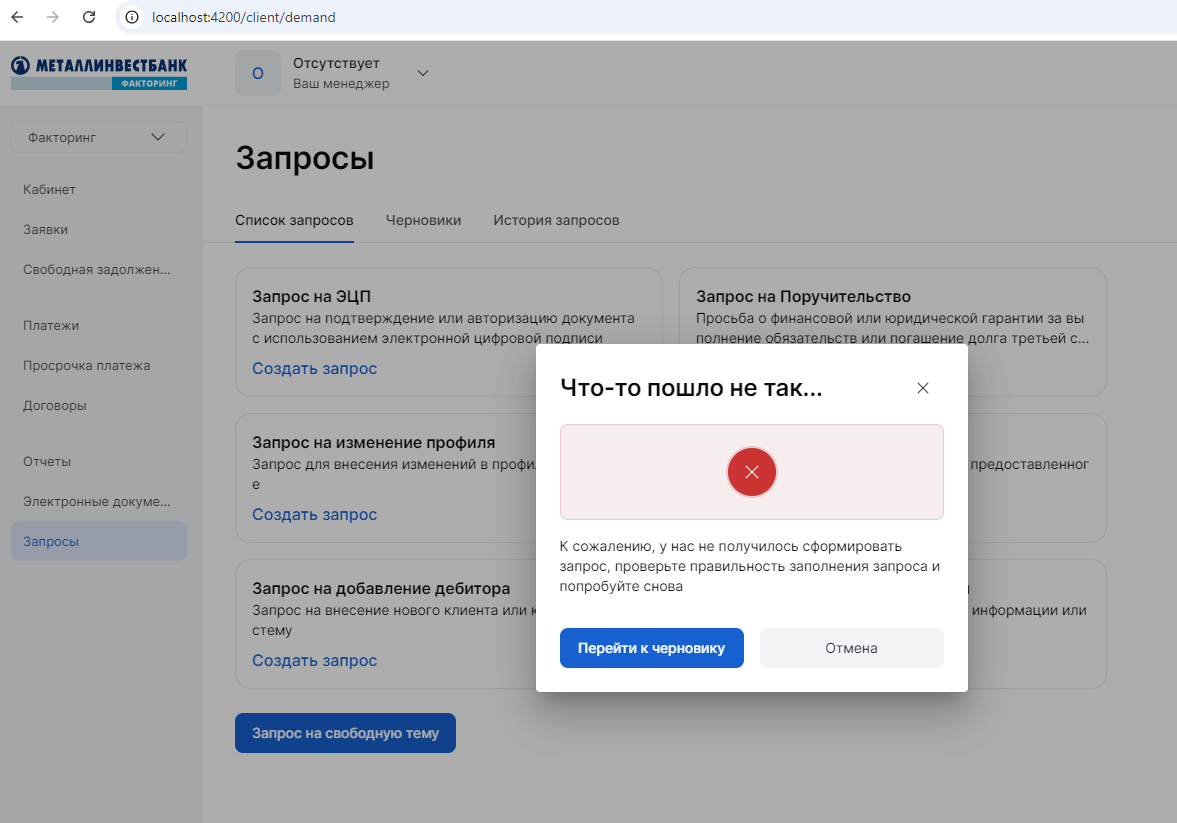
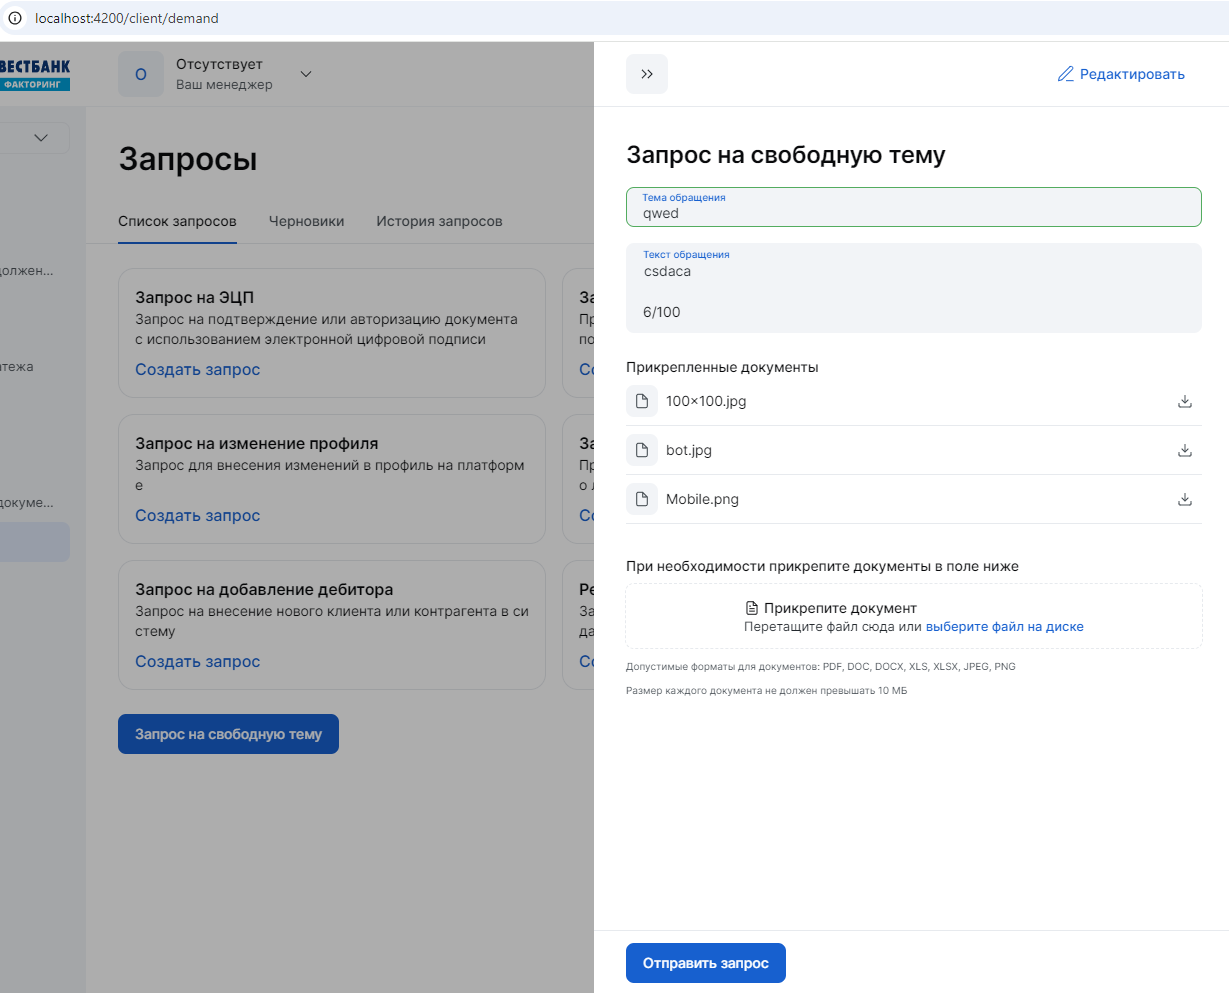
feat: free.request basic

diff --git a/src/app/client/modules/demand-new/modules/demand-drawer/demand-drawer.component.ts b/src/app/client/modules/demand-new/modules/demand-drawer/demand-drawer.component.ts
@@ -5,7 +5,10 @@ import {ButtonSize} from 'src/app/shared/ui-kit/button/interfaces/button.interfa
 import {InputSize} from 'src/app/shared/ui-kit/input/interfaces/input.interface'
 import {DrawerData} from '../../../../../shared/ui-kit/drawer/interfaces/drawer.interface'
 import {FileDnd} from 'src/app/shared/ui-kit/drag-and-drop/interfaces/drop-box.interface'
-import {extractBase64} from 'src/app/shared/services/tools.service'
+import {
+	downloadBase64File,
+	extractBase64
+} from 'src/app/shared/services/tools.service'
 import {DocumentReq} from '../../../requests/interfaces/request.interface'
 import {ToasterService} from 'src/app/shared/services/common/toaster.service'
 import {
@@ -25,6 +28,7 @@ import {
 import {DemandService} from '../../services/demand.service'
 import {RequestFailureModalService} from 'src/app/shared/modules/modals/request-failure-modal/request-failure-modal.service'
 import {RequestCreateSuccessModalService} from 'src/app/shared/modules/modals/request-create-success-modal/request-create-success-modal.service'
+import {DocumentsService} from '../../../documents/services/documents.service'
 
 @Component({
 	selector: 'mib-demand-drawer',
@@ -47,6 +51,8 @@ export class DemandDrawerComponent implements OnInit {
 	isViewDemand: boolean = false
 	isDemandRequest: boolean = false
 
+	public isDownloading$ = new BehaviorSubject<boolean>(false)
+
 	DraftId = null
 
 	constructor(
@@ -56,6 +62,7 @@ export class DemandDrawerComponent implements OnInit {
 		private requestFailureModalService: RequestFailureModalService,
 		private requestCreateSuccessModalService: RequestCreateSuccessModalService,
 		public dialogRef: MatDialogRef<DemandDrawerComponent>,
+		private documentsService: DocumentsService,
 		@Inject(MAT_DIALOG_DATA) public data: DrawerData
 	) {}
 
@@ -67,7 +74,7 @@ export class DemandDrawerComponent implements OnInit {
 		this.initForms()
 
 		const modalData = this.data.data
-
+		console.log('modalData :>> ', modalData)
 		// Если редактирование ИЛИ просмотр, тогда тянем данные с АПИ
 		if (modalData?.isEdit || modalData?.isView) {
 			this.getByID()
@@ -86,7 +93,9 @@ export class DemandDrawerComponent implements OnInit {
 		if (modalData?.isCreation && modalData?.DraftId) {
 			this.DraftId = modalData.DraftId
 			// получаем черновик по DraftId
-			// this.getCurrentDraft();
+			console.log('HALO DRAFT >>>>')
+			console.log('modalData :>> ', modalData)
+			this.getCurrentDraft()
 
 			// Включаем авто сохранение
 			this.enableAutoSaveDraft()
@@ -189,6 +198,50 @@ export class DemandDrawerComponent implements OnInit {
 		this.addDocument(document)
 	}
 
+	downloadCurrentFile() {
+		console.log('HALO DOWNLOAD FILE >>>')
+		// this.isDownloading$.next(true)
+		// this.documentsService
+		// 	.getDocumentContent(DocumentID)
+		// 	.pipe(
+		// 		tap(data => {
+		// 			downloadBase64File(data, DocTitle)
+		// 		}),
+		// 		finalize(() => {
+		// 			this.isDownloading$.next(false)
+		// 		})
+		// 	)
+		// 	.subscribe()
+	}
+
+	getCurrentDraft() {
+		this.loading$.next(true)
+		this.demandService
+			.getDemandDraftById(this.DraftId)
+			.pipe(
+				tap(data => {
+					/* 
+						{
+						"ID": 15972,
+						"User": "Котов Андрей",
+						"DateCreated": "2024-09-24T15:44:17Z",
+						"DateModify": "2024-09-24T15:44:31Z",
+						"DemandData": "{\"Subject\":\"fail test \",\"Question\":\"fail test text\",\"Type\":\"Question\",\"Files\":[]}"
+						}
+						*/
+					console.log('data :>> ', data)
+					const demandData = JSON.parse(data.DemandData)
+					const subject = demandData.Subject
+					const question = demandData.Question
+
+					this.form.get('requestTitle').setValue(subject)
+					this.form.get('requestText').setValue(question)
+				}),
+				finalize(() => this.loading$.next(false))
+			)
+			.subscribe()
+	}
+
 	onSubmit() {
 		this.isSubmitting$.next(true)
 		const res = this.form.getRawValue()
@@ -227,17 +280,12 @@ export class DemandDrawerComponent implements OnInit {
 					// Ожидание завершения всех запросов на загрузку файлов
 					return forkJoin(uploadObservables)
 				}),
-				// catchError(error => {
-				// 	this.dialogRef.close()
-				// 	this.openRequestFailureModal(this.data)
-				// 	return of(null)
-				// }),
 				finalize(() => this.isSubmitting$.next(false))
 			)
 			.subscribe({
 				error: () => {
 					this.dialogRef.close()
-					this.openRequestFailureModal(this.data)
+					this.openRequestFailureModal(this.DraftId)
 				},
 				complete: () => {
 					this.dialogRef.close()

diff --git a/src/app/client/modules/demand-new/modules/demand-drawer/demand-drawer.component.html b/src/app/client/modules/demand-new/modules/demand-drawer/demand-drawer.component.html
@@ -26,15 +26,24 @@
 			></textarea>
 		</mib-textarea>
 		<mib-spacing type="s"></mib-spacing>
-		<p
-			class="text text_m text_medium"
+		<ng-container
 			*ngIf="!documents.controls.length; else copiesTemplate"
-		>
+		></ng-container>
+		<p class="text text_m text_medium">
 			При необходимости прикрепите документы в поле ниже
 		</p>
 		<mib-spacing type="xs2"></mib-spacing>
 		<ng-template #copiesTemplate>
-			<mib-table>
+			<p class="text text_m text_medium">Прикрепленные документы</p>
+			<mib-spacing type="xs2"></mib-spacing>
+			<div *ngFor="let document of documents.controls; let idx = index">
+				<mib-dl-file-cell
+					(onDload)="downloadCurrentFile()"
+					[fileName]="document.get('Title').value"
+				></mib-dl-file-cell>
+				<mib-spacing type="xs2"></mib-spacing>
+			</div>
+			<!-- <mib-table>
 				<mib-table-head>
 					<mib-table-head-cell>№</mib-table-head-cell>
 					<mib-table-head-cell>Имя файла</mib-table-head-cell>
@@ -42,46 +51,47 @@
 					<mib-table-head-cell>Тип документа</mib-table-head-cell>
 				</mib-table-head>
 				<mib-table-row
-					*ngFor="let document of documents.controls; let idx = index"
+				*ngFor="let document of documents.controls; let idx = index"
 				>
-					<mib-table-cell>
-						<ng-container table-cell-title>{{ idx + 1 }}</ng-container>
-					</mib-table-cell>
-					<mib-table-cell>
-						<ng-container table-cell-title>{{
-							document.get('Title').value
-						}}</ng-container>
-					</mib-table-cell>
-					<mib-table-cell>
-						<ng-container table-cell-title>{{
-							document.get('Description').value
-						}}</ng-container>
-					</mib-table-cell>
-					<mib-table-cell>
-						<ng-container table-cell-title>{{
-							document.get('DocumentTypeID').value
-						}}</ng-container>
-					</mib-table-cell>
-					<mib-button
-						table-row-button
-						[mibDropdownTrigger]="documentMenu"
-						size="s"
-						type="ghost-secondary"
-					>
-						<mib-icon
-							class="stroke"
-							btn-icon
-							name="fi_more-vertical"
-						></mib-icon>
-					</mib-button>
-					<mib-dropdown #documentMenu>
-						<mib-dropdown-point
-							(press)="removeDocument(idx)"
-							text="Удалить"
-						></mib-dropdown-point>
-					</mib-dropdown>
-				</mib-table-row>
-			</mib-table>
+				<mib-table-cell>
+					<ng-container table-cell-title>{{ idx + 1 }}</ng-container>
+				</mib-table-cell>
+				<mib-table-cell>
+					<ng-container table-cell-title>{{
+						document.get('Title').value
+					}}</ng-container>
+				</mib-table-cell>
+				<mib-table-cell>
+					<ng-container table-cell-title>{{
+						document.get('Description').value
+					}}</ng-container>
+				</mib-table-cell>
+				<mib-table-cell>
+					<ng-container table-cell-title>{{
+						document.get('DocumentTypeID').value
+					}}</ng-container>
+				</mib-table-cell>
+				<mib-button
+				table-row-button
+				[mibDropdownTrigger]="documentMenu"
+				size="s"
+				type="ghost-secondary"
+				>
+				<mib-icon
+				class="stroke"
+				btn-icon
+				name="fi_more-vertical"
+				></mib-icon>
+			</mib-button>
+			<mib-dropdown #documentMenu>
+				<mib-dropdown-point
+				(press)="removeDocument(idx)"
+				text="Удалить"
+				></mib-dropdown-point>
+			</mib-dropdown>
+		</mib-table-row>
+	</mib-table> -->
+			<mib-spacing type="s"></mib-spacing>
 		</ng-template>
 		<div class="flex flex_column gap-12">
 			<mib-dnd

diff --git a/src/app/client/modules/demand-new/modules/demand-drawer/demand-drawer.module.ts b/src/app/client/modules/demand-new/modules/demand-drawer/demand-drawer.module.ts
@@ -20,6 +20,7 @@ import {DropdownPointModule} from 'src/app/shared/ui-kit/dropdown-point/dropdown
 import {DropdownModule} from 'src/app/shared/ui-kit/dropdown/dropdown.module'
 import {FileCellModule} from 'src/app/shared/ui-kit/file-cell/file-cell.module'
 import {RequestFailureModalModule} from 'src/app/shared/modules/modals/request-failure-modal/request-failure-modal.module'
+import {DlFileCellModule} from 'src/app/shared/ui-kit/dl-file-cell/dl-file-cell.module'
 
 @NgModule({
 	declarations: [DemandDrawerComponent],
@@ -42,7 +43,8 @@ import {RequestFailureModalModule} from 'src/app/shared/modules/modals/request-f
 		DropdownPointModule,
 		DropdownModule,
 		FileCellModule,
-		RequestFailureModalModule
+		RequestFailureModalModule,
+		DlFileCellModule
 	],
 	providers: [DemandDrawerService]
 })

diff --git a/src/app/shared/modules/modals/request-failure-modal/request-failure-modal.component.ts b/src/app/shared/modules/modals/request-failure-modal/request-failure-modal.component.ts
@@ -21,10 +21,20 @@ export class RequestFailureModalComponent {
 		@Inject(MAT_DIALOG_DATA) public data: any
 	) {}
 
-	openBrowserDrawer(data) {
-		const draft = data.d.data || null
+	openBrowserDrawer({d: draftId}) {
+		if (!draftId) {
+			console.error('Draft ID is missing')
+			return
+		}
+
+		const draft = {
+			data: {
+				isCreation: true,
+				DraftId: draftId
+			}
+		}
+
 		this.dialogRef.close()
-		console.log('draft from failure :>> ', draft)
 		this.demandDrawerService.open(draft)
 	}
 }

diff --git a/src/app/shared/ui-kit/modal/components/banner-modal/banner-modal.component.scss b/src/app/shared/ui-kit/modal/components/banner-modal/banner-modal.component.scss
@@ -14,7 +14,7 @@
 		padding: 12px;
 		border-radius: 64px;
 		z-index: 2;
-		@include icon-color(--wgr-primary);
+		@include icon-color(state(wgr-primary));
 	}
 	&.modal_success {
 		border: 1px solid var(--success-quaternary);
